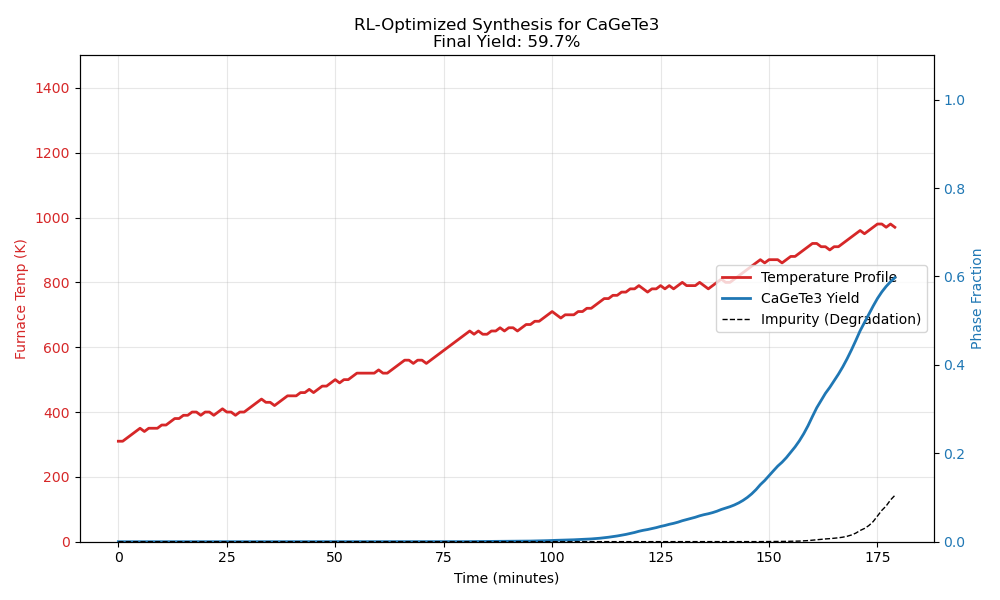
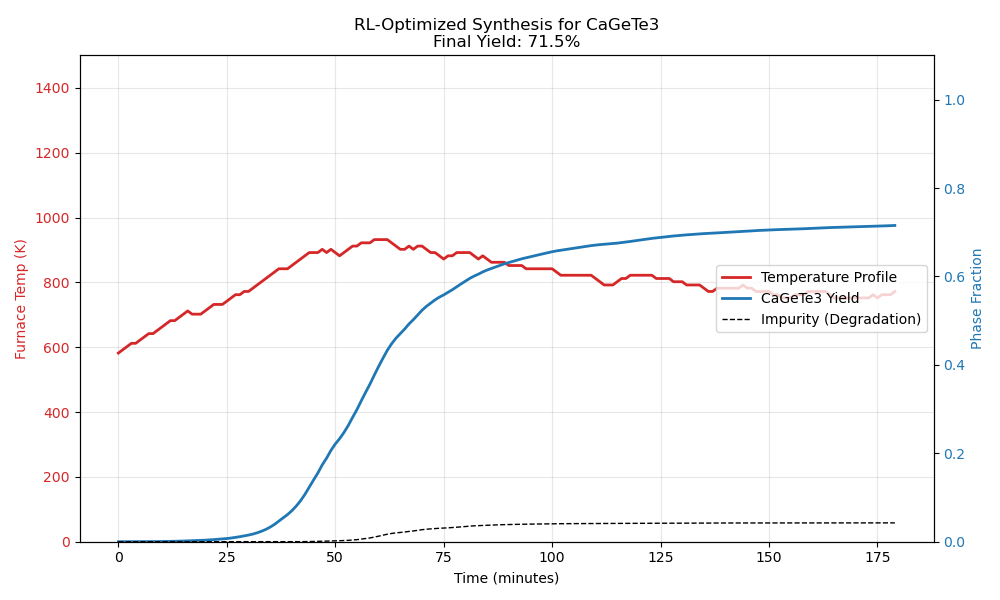
71 perent yield

diff --git a/synthesis/furnace.py b/synthesis/furnace.py
@@ -4,20 +4,21 @@ import numpy as np # type: ignore
 
 class VirtualFurnaceEnv(gym.Env):
     """
-    Virtual Furnace v2.0
-    Improved Reward Function to break the 60% Yield Ceiling.
+    Virtual Furnace v5.0 (The Expert)
+    Tweaks:
+    1. Lower Start Range (Forces efficient ramping)
+    2. Impurity Threshold (Allows risky behavior)
     """
     def __init__(self):
         super(VirtualFurnaceEnv, self).__init__()
-        
         self.action_space = spaces.Discrete(3)
         self.observation_space = spaces.Box(
-            low=np.array([0, 0, 0, 0], dtype=np.float32), 
-            high=np.array([2000, 1.0, 1.0, 1.0], dtype=np.float32), 
+            low=np.array([0, 0, 0, 0]), 
+            high=np.array([1, 1, 1, 1]), 
             dtype=np.float32
         )
         
-        # --- PHYSICS (Same as before) ---
+        # --- PHYSICS (Standard) ---
         self.Ea_form_R = 13200.0   
         self.A_form = 50000.0      
         self.Ea_deg_R = 27600.0
@@ -27,8 +28,13 @@ class VirtualFurnaceEnv(gym.Env):
 
     def reset(self, seed=None):
         super().reset(seed=seed)
-        self.temp = 300.0 
-        self.state = np.array([1.0, 0.0, 0.0]) # [Precursor, Target, Trash]
+        
+        # TWEAK 1: Shift range down to [300, 700]
+        # This forces the agent to practice "The Climb" from cold temperatures,
+        # ensuring it works when we test it at real Room Temp (300K).
+        self.temp = float(np.random.uniform(300, 700))
+        
+        self.state = np.array([1.0, 0.0, 0.0]) 
         self.time_step = 0
         return self._get_obs(), {}
 
@@ -37,6 +43,7 @@ class VirtualFurnaceEnv(gym.Env):
         elif action == 2: self.temp += 10
         self.temp = np.clip(self.temp, 300, 1400)
         
+        # Physics Engine
         T = self.temp
         k_form = self.A_form * np.exp(-self.Ea_form_R / T)
         k_deg = self.A_deg * np.exp(-self.Ea_deg_R / T)
@@ -53,31 +60,23 @@ class VirtualFurnaceEnv(gym.Env):
         self.time_step += 1
         done = self.time_step >= self.max_time
         
-        # --- NEW REWARD FUNCTION (The Fix) ---
+        # --- REWARD TUNING ---
         delta_yield = (moles_forming - moles_burning)
-        
-        # 1. The Carrot: 
-        # Reward creation (scaled up to be significant)
         reward = delta_yield * 2000.0 
         
-        # 2. The Stick (Smoother): 
-        # Old way: if impurity > 0.05 then -10 (Cliff). 
-        # New way: Penalty is proportional. 0.01 impurity = -0.5 points.
-        reward -= (self.state[2] * 50.0)
+        # TWEAK 2: The "Forgiveness" Threshold
+        # Only punish if impurity is > 3%. 
+        # This gives the agent confidence to surf the "Heat Wave."
+        if self.state[2] > 0.03:
+             reward -= (self.state[2] * 20.0)
         
         if done:
-            # 3. The Jackpot:
-            # If you hit > 90% yield, you get a massive exponential bonus.
-            # This forces the agent to optimize the last 10%.
-            final_yield = self.state[1]
-            if final_yield > 0.9:
-                reward += 2000.0
-            elif final_yield > 0.5:
-                reward += final_yield * 100.0
+            reward += self.state[1] * 20.0
             
         return self._get_obs(), reward, done, False, {}
 
     def _get_obs(self):
+        # Normalize everything to 0.0 - 1.0 range
         return np.array([
             self.temp / 1500.0, 
             self.state[1], 

diff --git a/synthesis/optimize.py b/synthesis/optimize.py
@@ -20,8 +20,8 @@ print("👨🔬 TRAINING STARTED: The agent is learning thermal kinetics...")
 print("    (This will take about 30 seconds on a laptop)")
 
 # 3. TRAINING LOOP
-# The agent tries 50,000 minutes of experiment time to find the pattern.
-model.learn(total_timesteps=50000)
+# The agent tries 150,000 minutes of experiment time to find the pattern.
+model.learn(total_timesteps=150000)
 print("✅ TRAINING COMPLETE.")
 
 # 4. THE FINAL EXAM
